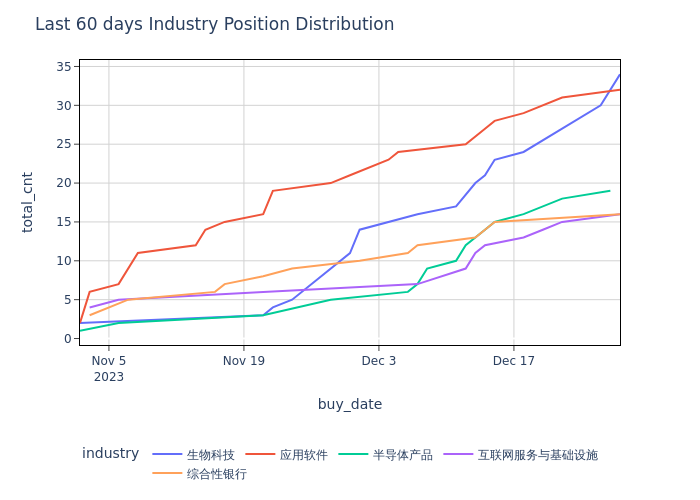
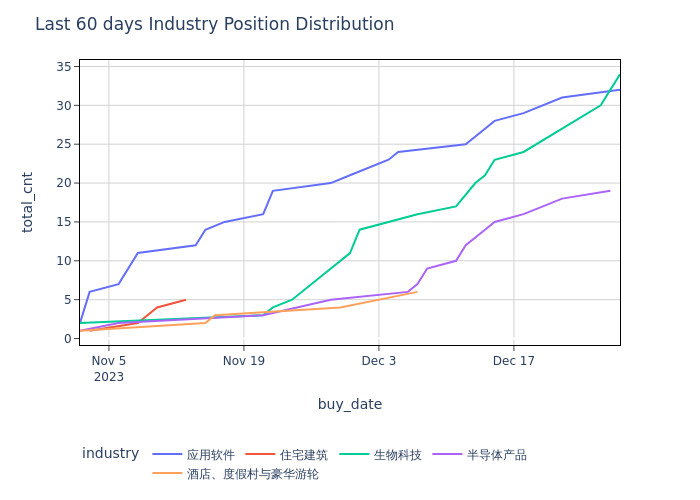
update

diff --git a/finance/utility/StockProposal.py b/finance/utility/StockProposal.py
@@ -401,6 +401,57 @@ class StockProposal:
                               )
             fig.write_image(
                 "./images/postion_byindustry&date.png", engine='kaleido')
+            # P&L分析
+            sqlDF_bydate2 = spark.sql(
+                "with tmp as ( \
+                    select industry, pl from ( \
+                        select industry, sum(`p&l`) as pl from temp group by industry) \
+                        order by pl desc limit 5 \
+                ), tmp1 as ( select buy_date, industry, total_cnt \
+                            from ( \
+                                select buy_date, industry, \
+                                SUM(COUNT(*)) OVER (partition by industry ORDER BY buy_date ROWS BETWEEN UNBOUNDED PRECEDING AND CURRENT ROW) AS total_cnt \
+                                from temp \
+                                group by buy_date, industry order by buy_date ) t \
+                            where buy_date >= date_add(current_date(), -60) \
+                )  select tmp.industry, tmp1.buy_date, tmp1.total_cnt\
+                from tmp left join tmp1 \
+                on tmp.industry = tmp1.industry \
+                "
+            )
+            df_displaybydate2 = sqlDF_bydate2.toPandas()
+            fig = px.line(df_displaybydate2,
+                          x='buy_date',
+                          y='total_cnt',
+                          color='industry',
+                          color_discrete_sequence=px.colors.qualitative.Plotly)
+            fig.update_traces(line=dict(width=2))
+            fig.update_xaxes(
+                mirror=True,
+                ticks='outside',
+                showline=True,
+                linecolor='black',
+                gridcolor='lightgrey'
+            )
+            fig.update_yaxes(
+                mirror=True,
+                ticks='outside',
+                showline=True,
+                linecolor='black',
+                gridcolor='lightgrey'
+            )
+            fig.update_layout(title='Last 60 days Industry Position Distribution',
+                              legend=dict(
+                                    orientation="h",
+                                    yanchor="bottom",
+                                    y=-0.5,
+                                    xanchor="left",
+                                    x=0
+                              ),
+                              plot_bgcolor='white',
+                              )
+            fig.write_image(
+                "./images/postion_byindustry&p&l.png", engine='kaleido')
             if self.market == "us":
                 subject = "美股行情分析"
                 image_path_return = "./images/TRdraw.png"
@@ -413,6 +464,7 @@ class StockProposal:
                 "./images/postion_bydate.png",
                 "./images/BuySell.png",
                 "./images/postion_byindustry&date.png",
+                "./images/postion_byindustry&p&l.png",
                 image_path_return,
             ]
             MyEmail().send_email_embedded_image(subject, html, image_path)

diff --git a/finance/test.py b/finance/test.py
@@ -105,9 +105,9 @@ sqlDF_bydate = spark.sql(
 df_displaybydate = sqlDF_bydate.toPandas()
 sqlDF_bydate1 = spark.sql(
     "with tmp as ( \
-        select industry, cnt from ( \
-            select industry, count(*) as cnt from temp group by industry) t \
-            order by cnt desc limit 5 \
+        select industry, pl from ( \
+            select industry, sum(`p&l`) as pl from temp group by industry) \
+            order by pl desc limit 5 \
     ), tmp1 as ( select buy_date, industry, total_cnt \
                 from ( \
                     select buy_date, industry, \
